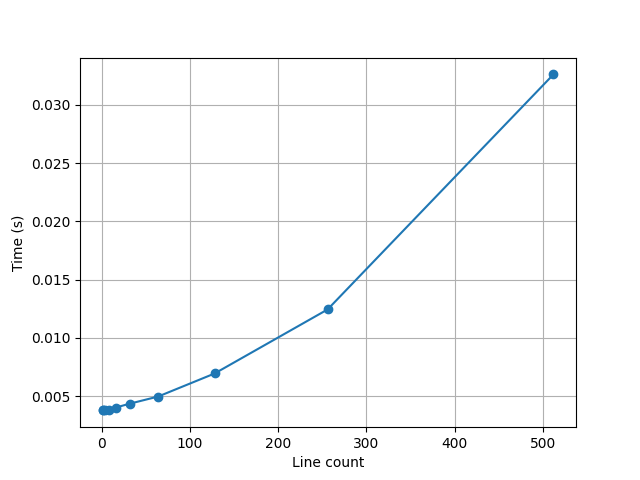
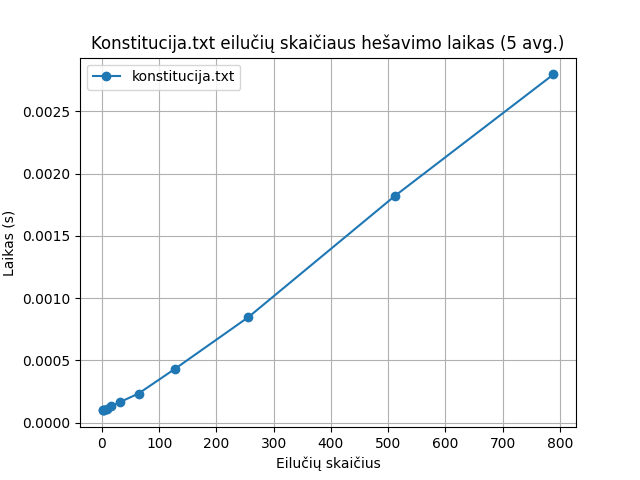
docs: update README.md with detailed hashing algorithm tasks and examples; add new images

diff --git a/pratybos/hash_funkcija/README.md b/pratybos/hash_funkcija/README.md
@@ -5,6 +5,9 @@
 - C++ kompiliatorius, palaikantis C++17 standartą
 - CMake
 
+diagramos braižymui:
+- Python
+- uv
 
 ## Algoritmo idėja
 * Funkcija paima std::string ir grąžina 64 simbolių heksą (32 baitai).
@@ -52,45 +55,139 @@ atlikus testavimą, galima sugeneruoti konstitucijos nuotrauką su:
 
 - `./draw_konstitucija`
 
-pavyzdys:
+## Užduotis
+
+### 1. Įvedimas – bet kokio ilgio eilutė
+
+Hešavimo funkcija priima betkokio ilgio įvestį
+
+| Įvestis | Hešas |
+| ---------- | ---------- |
+| a | 8d6f744eb09f89df811b44c7f346cd26822d86ac60cdfb65f776aa7b805e535b |
+| bbbb | d270d8cf30649510d4d2a443b100c2cb1097f4080d16552046881a5a673e29be |
+| cccccccccccccccc | 2f24dd3d7db2473bd95db95a716d5cf238e498456e0f9ddb679afb3efa1aef79 |
+| dddddddddddddddddddddddddddddddddddddddddddddddddddddddddddddddd | 5ee5532e401ba41521d545c75c1cc791b09ba5ce2d1a8ce751ca901f803bdf4c |
+
+### 2. Rezultatas – visada vienodo dydžio (256bit/64 hex simboliai).
+
+Algoritmas duoda vienodo dydžio hešus - 64 hex simbolių.
+
+| Įvestis | Hešo dydis | Hešas |
+| ---------- | ---------- | ---------- |
+| e | 64 | 8b2dc866f02e13cc1b691ad5c02a84a8725d3e492eaf6071b18d30c2c04a9eb0 |
+| ffff | 64 | 4945787dcd4fed8c7e129de85c3c40ad253bb6b0bf1308254ed9f1a0b137d907 |
+| gggggggggggggggg | 64 | a7d34063f2b120277e4f740b957c329ff33cfb8574b452922e7d261cb7da7987 |
+| hhhhhhhhhhhhhhhhhhhhhhhhhhhhhhhhhhhhhhhhhhhhhhhhhhhhhhhhhhhhhhhh | 64 | dfd7afb66a88e8740ee38a92520d2ce2f4e4de9d26bb79ca719bdf67c02bbb51 |
+
+
+### 3. Deterministiškumas – tas pats įvedimas = tas pats rezultatas.
+
+Algoritmas deterministiškas – ta pati įvestis duoda tą patį rezultatą
+
+| Įvestis | Hešas |
+| ---------- | ---------- |
+| lietuva | 06ec0c64c58b069ac75e0f47394b99df12232f9eea03f00ab92c8f1778ade62c |
+| lietuva (pakartotinai) | 06ec0c64c58b069ac75e0f47394b99df12232f9eea03f00ab92c8f1778ade62c |
+| Lietuva | 06ec0c64c5aa7bf21138cbc92fd4b4df931701e4b436f59658b510de56e84edc |
+| Lietuva (pakartotinai) | 06ec0c64c5aa7bf21138cbc92fd4b4df931701e4b436f59658b510de56e84edc |
+| Lietuva! | 06ec0c64c5aa7bf21138cbc92fd4b4df931701e4b436f59658b510de56e84edc |
+| Lietuva! (pakartotinai) | 06ec0c64c5aa7bf21138cbc92fd4b4df931701e4b436f59658b510de56e84edc |
+| Lietuva!! | 06ec0c64c5aa7bf21138cbc92fd4b4df931701e4b436f59658b5147f09ec8e9c |
+| Lietuva!! (pakartotinai) | 06ec0c64c5aa7bf21138cbc92fd4b4df931701e4b436f59658b5147f09ec8e9c |
+
+### 4. Efektyvumas – turi veikti pakankamai greitai.
+
+Konstitucija.txt eilučių skaitymo laikai:
+
+| Eilučių kiekis | Laikas |
+| ---------- | ---------- |
+| 1 | 0.000099 |
+| 2 | 0.000100 |
+| 4 | 0.000104 |
+| 8 | 0.000114 |
+| 16 | 0.000133 |
+| 32 | 0.000167 |
+| 64 | 0.000235 |
+| 128 | 0.000434 |
+| 256 | 0.000848 |
+| 512 | 0.001821 |
+| 789 | 0.002795 |
+
+### 5. Atsparumas kolizijoms – neturi būti lengva (praktiškai labai sudėtinga) rasti du skirtingus įvedimus, kurie duotų tą patį hash’ą.
+
+### 6. Lavinos efektas (angl. Avalanche effect) – pakeitus vieną simbolį, rezultatas pasikeičia iš esmės.
+
+
+| Įvestis | Hešas |
+| ---------- | ---------- |
+| lietuva | 06ec0c64c58b069ac75e0f47394b99df12232f9eea03f00ab92c8f1778ade62c |
+| Lietuva | 06ec0c64c5aa7bf21138cbc92fd4b4df931701e4b436f59658b510de56e84edc |
+| Lietuva! | 06ec0c64c5aa7bf21138cbc92fd4b4df931701e4b436f59658b510de56e84edc |
+| Lietuva!! | 06ec0c64c5aa7bf21138cbc92fd4b4df931701e4b436f59658b5147f09ec8e9c |
+
+Lavinos efektas – yra.
+
+![alt text](sad_emoji.webp)
+
+### 7. Negrįžtamumas – iš hash’o praktiškai neįmanoma atspėti pradinio teksto.
+ 
+Pažvelkime vėl į duomenis iš lavinos efekto.
+
+| Įvestis | Hešas |
+| ---------- | ---------- |
+| lietuva | 06ec0c64c58b069ac75e0f47394b99df12232f9eea03f00ab92c8f1778ade62c |
+| Lietuva | 06ec0c64c5aa7bf21138cbc92fd4b4df931701e4b436f59658b510de56e84edc |
+| Lietuva! | 06ec0c64c5aa7bf21138cbc92fd4b4df931701e4b436f59658b510de56e84edc |
+| Lietuva!! | 06ec0c64c5aa7bf21138cbc92fd4b4df931701e4b436f59658b5147f09ec8e9c |
+
+Manau saugiai galima pasakyti, kad įvestis neturi sąsąjų su hešavimo rezultatu.
+
+## Eksperimentas
+
+### Konstitucijos testas
+
+Gauti rezultatai (vidurkis paimtas iš 5 testų):
+
+| Eilučių kiekis | Laikas |
+| ---------- | ---------- |
+| 1 | 0.000099 |
+| 2 | 0.000100 |
+| 4 | 0.000104 |
+| 8 | 0.000114 |
+| 16 | 0.000133 |
+| 32 | 0.000167 |
+| 64 | 0.000235 |
+| 128 | 0.000434 |
+| 256 | 0.000848 |
+| 512 | 0.001821 |
+| 789 | 0.002795 |
 
 ![alt text](konstitucija.png)
 
-## Rezultatai
+Galima įžiūrėti, jog algoritmas yra tiesinis. Time complexity: O(n).
+Manau veikia visai neblogu greičiu. Prieš SHA256 ne
+### Avalanche
 
-## Konstitucijos testas
-
-Gauti rezultatai:
-
-| 1   | 0.000587  |
-|-----|-----------|
-| 2   | 0.0005952 |
-| 4   | 0.0006158 |
-| 8   | 0.0006594 |
-| 16  | 0.000819  |
-| 32  | 0.0010494 |
-| 64  | 0.0015554 |
-| 128 | 0.0030648 |
-| 256 | 0.006121  |
-| 512 | 0.013614  |
+Šioje vietoje algoritmas veikia vidutiniškai
 
 
-Manau sąlyginai neblogai veikia.
-## Avalanche
-Šita implementacija veikia tikrai labai blogai. Dažnai hash'ai sutampa atliekant avalanche efekto eksperimentą.
+| Lines | Symbols | Avg Hex % | Avg Bit % | Min Hex % | Min Bit % | Max Hex % | Max Bit % |
+| ----: | ------: | --------: | --------: | --------: | --------: | --------: | --------: |
+| 100000 | 10 | 28.13 | 14.72 | 0 | 0 | 85.94 | 49.61 |
+| 100000 | 100 | 73.09 | 38.36 | 0 | 0 | 100 | 62.11 |
+| 100000 | 500 | 63.41 | 33.26 | 0 | 0 | 100 | 61.33 |
+| 100000 | 1000 | 62.87 | 33.02 | 0 | 0 | 100 | 62.5 |
 
-100 simbolių 100'000 stringų porų rezultatai:
-
-
-| type | avg   | max | min |
-|------|-------|-----|-----|
-| Hex  | 92.62 | 100 | 0   |
-| Bit  | 49.75 | 100 | 0   |
-
-## Colision
+### Colision
 Collision testai atnešė geresnius rezultatus -- kolizijų nė karto nepasitaikė.
 
+| Lines | Symbols | Collisions | Frequency |
+| ----: | ------: | ---------: | --------: |
+| 100000 | 10 | 0 | 0.0000 |
+| 100000 | 100 | 0 | 0.0000 |
+| 100000 | 500 | 0 | 0.0000 |
+| 100000 | 1000 | 0 | 0.0000 |
+| 100000 | 10 | 0 | 0.0000 |
 
 ## Išvados
 
-Algoritmą reikia tikrai labai tobulinti. Labai svarbu išsiaiškinti kaip užtikrinti, jog vieno simbolio pakeitimas užtikrins viso hash'o pakitimą.
